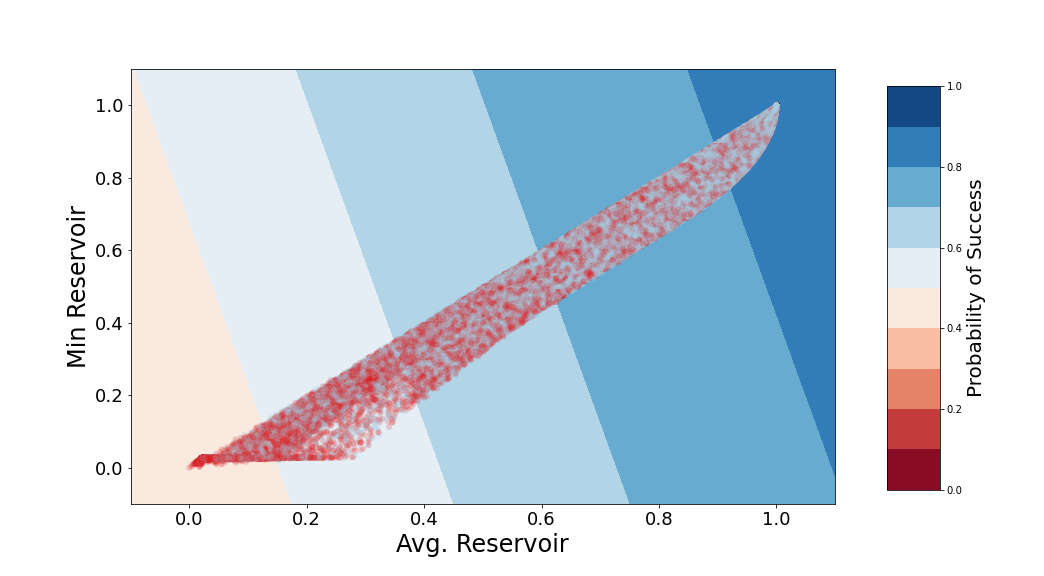
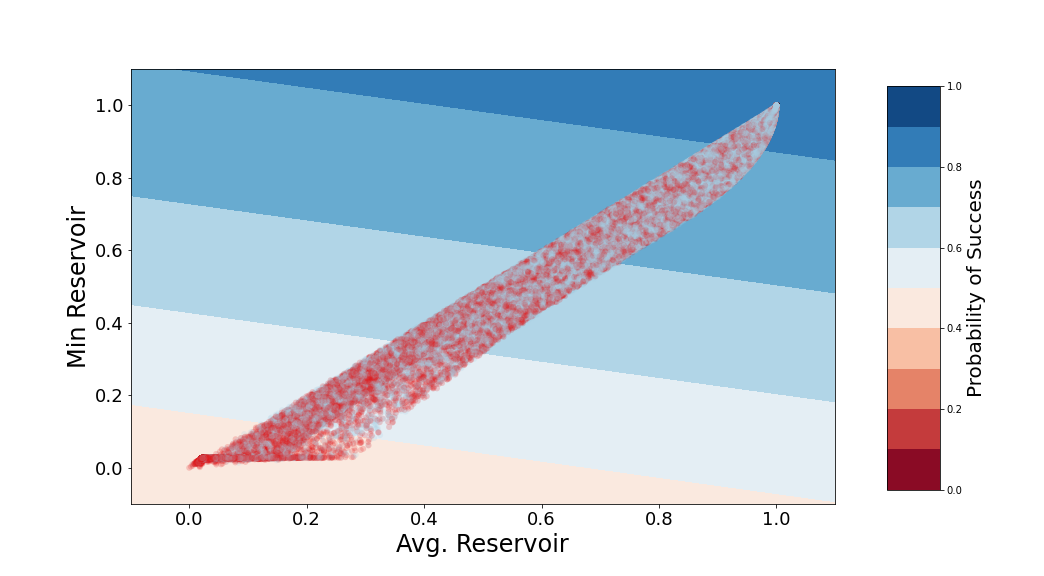
Update

diff --git a/logistic_regression_plots.py b/logistic_regression_plots.py
@@ -21,9 +21,14 @@ from utils import normalize_columns, binary_performance_mask
 ################################################################################
 
 def construct_contour_map(model, ax, constant, contour_cmap, dot_cmap, levels, xgrid, ygrid, \
-    xvar, yvar, base):
+    variable_params, base):
+
+    xvar = variable_params[0]
+    yvar = variable_params[1]
 
     dta = normalize_columns(model.data)
+
+    all_params = dta.columns.to_list()
 
     result = model.run()
 
@@ -35,18 +40,25 @@ def construct_contour_map(model, ax, constant, contour_cmap, dot_cmap, levels, x
     x = X.flatten()
     y = Y.flatten()
 
+    variable_param_indeces = [all_params.index(variable_params[i]) for i in range(len(variable_params))]
 
-    # GENERALIZE THIS
-    if constant == 'x3': # 3rd predictor held constant at base value
-        grid = np.column_stack([x, y, np.ones(len(x))*base[2], np.ones(len(x))])
+    # Create a grid of 1s with n-dimensions corresponding to n-parameters (add 1 more for intercept)
+    grid = [np.ones(len(x)) for _ in range(len(all_params) + 1)]
 
-    elif constant == 'x2': # 2nd predictor held constant at base value
-        grid = np.column_stack([x, np.ones(len(x))*base[1], y, np.ones(len(x))])
+    for i in range(len(all_params)):
 
-    else: # 1st predictor held constant at base value
-        grid = np.column_stack([np.ones(len(x))*base[0], x, y, np.ones(len(x))])
+        if i == variable_param_indeces[0]:
+            grid[i] = x
 
-    #model.grid = grid
+        elif i == variable_param_indeces[1]:
+            grid[i] = y
+
+        else:
+            grid[i] = grid[i] * base[i]
+
+    grid = np.column_stack(grid)
+
+    model.grid = grid
     #model.x = x
     #model.y = y
     #model.dta = dta
@@ -69,7 +81,9 @@ def construct_contour_map(model, ax, constant, contour_cmap, dot_cmap, levels, x
 
 ################################################################################
 
-def plot_single_contour(model, x, y):
+def plot_single_contour(model, variable_params):
+
+    assert (len(variable_params) == 2), 'variable_params must contain only two parameter names.'
 
     # Color map for dots representing success (light blue) and fails (dark red)
     dot_cmap = mpl.colors.ListedColormap(np.array([[227,26,28],[166,206,227]])/255.0)
@@ -97,13 +111,13 @@ def plot_single_contour(model, x, y):
     # Set up plot
     fig, ax = plt.subplots()
 
-    constant_col = [x for x in param_labs if x not in [x, y]]
-    constant_col = 'x1'
-    print(f'Constant: {constant_col}')
+    # Define the constant parameters as those not in the variable pair
+    constant_params = [x for x in param_labs if x not in variable_params]
+    print(f'Constants: {constant_params}')
 
-        # plot contour map when 3rd predictor ('x3') is held constant
-    contourset = construct_contour_map(model, ax, constant_col, contour_cmap, dot_cmap, contour_levels, xgrid, ygrid, \
-        x, y, base)
+    # plot contour map when 3rd predictor ('x3') is held constant
+    contourset = construct_contour_map(model, ax, constant_params, contour_cmap, dot_cmap, contour_levels, xgrid, ygrid, \
+        variable_params, base)
 
     # Finish the plot
     fig.subplots_adjust(wspace=0.3,hspace=0.3,right=0.8)

diff --git a/run_TBW_scenario_discovery.py b/run_TBW_scenario_discovery.py
@@ -22,7 +22,7 @@ from numpy.lib.stride_tricks import as_strided
 from logistic_regression_functions import fit_logistic, rank_significance, normalize_columns
 
 
-from scenario_discovery_library import LinearRegression
+from scenario_discovery_library import LogisticRegression
 
 
 #%%
@@ -40,8 +40,8 @@ performance_data_path = 'C:/Users/tja73/Box/TampaBayWater/PerformanceAssessment/
 input_data_path = 'C:/Users/tja73/Box/TampaBayWater/PerformanceAssessment/TBW_Performance_Assessment/Supply_Assessment/scenario_discovery/realization_input_data'
 
 # Laptop
-performance_data_path = 'C:/Users/tjame/Box Sync/TampaBayWater\PerformanceAssessment/TBW_Performance_Assessment/Supply_Assessment/scenario_discovery/realization_performance_data'
-input_data_path = 'C:/Users/tjame/Box Sync/TampaBayWater/PerformanceAssessment/TBW_Performance_Assessment/Supply_Assessment/scenario_discovery/realization_input_data'
+# performance_data_path = 'C:/Users/tjame/Box Sync/TampaBayWater\PerformanceAssessment/TBW_Performance_Assessment/Supply_Assessment/scenario_discovery/realization_performance_data'
+# input_data_path = 'C:/Users/tjame/Box Sync/TampaBayWater/PerformanceAssessment/TBW_Performance_Assessment/Supply_Assessment/scenario_discovery/realization_input_data'
 
 
 #%%
@@ -72,29 +72,42 @@ for run in consider_runs:
 ### Prepare data frame for SD
 
 
-
-
 ## Annual metrics
-param_labs = ['Demands', 'Min. Reservoir']
 
-
+# Generate data frame
 sow_data = pd.DataFrame({'Demands' : monthly_demands.flatten(), 
-                         'Min Reservoir' : monthly_min_reservoir.flatten(), 
+                         'Min. Reservoir' : monthly_min_reservoir.flatten(), 
                          'Avg. Reservoir' : monthly_avg_reservoir.flatten()})
 
-# Test normalization
-#ndf = normalize_columns(sow_data)
-#sow_data['Intercept'] = 1
 
 # Generate object
-SD_model = LinearRegression(sow_data, shortfall_count.flatten(), param_labs, threshold = 7)
+SD_model = LogisticRegression(sow_data, shortfall_count.flatten(), threshold = 7)
 
 
-fit_model = SD_model.run()
+# Fit the model 
+fit_model = SD_model.fit()
 
-#ranks = SD_model.rank_inputs()
+# Rank the parameters by significance
+ranks = SD_model.rank_inputs()
 
-SD_model.plot_parameter_contour_map('Avg. Reservoir', 'Min Reservoir')
+# Plot the success contour map for a single parameter pair
+SD_model.plot_parameter_contour_map(variable_params = ['Avg. Reservoir', 'Min Reservoir'])
+
+
+
+
+
+
+
+
+
+
+
+
+
+
+
+
 
 
 

diff --git a/scenario_discovery_library.py b/scenario_discovery_library.py
@@ -22,12 +22,10 @@ from utils import binary_performance_mask, normalize_columns
 
 ################################################################################
 
-
-
-class LinearRegression:
+class LogisticRegression:
 
     def __init__(self,
-                inputs, performance, param_names,
+                inputs, performance,
                 threshold = None, threshold_type = '>'):
 
         # Store values
@@ -94,14 +92,24 @@ class LinearRegression:
         return self.ranks
 
 
+    def plot_parameter_contour_map(self, variable_params):
+        """
+        Produces a scatter plot of success/fail scenarios, overlayed on a
+        contour map showing the probability of sucess calculated from a
+        best-fit logistic regression.
+
+        All parameters are used in the logistic regression.
+
+        Only the variable_params are considered in the 2D plot; other params
+        are constant at their base (mean) value.
+        """
+        plot_single_contour(self, variable_params)
+        return
+
+
     def plot_all_contours(self):
-        plot_many_contours(self)
+        #WIP
         return
-
-    def plot_parameter_contour_map(self, x, y):
-        plot_single_contour(self, x, y)
-        return
-
 
 
 
